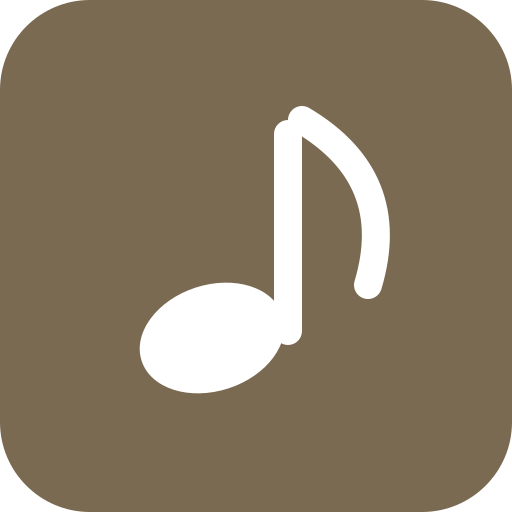
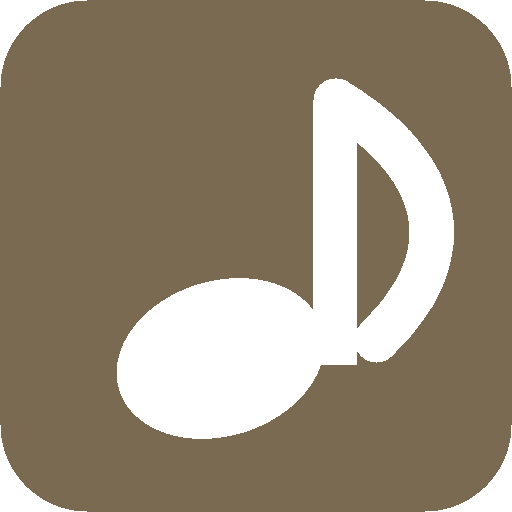
fix: PWA 아이콘 음표 픽셀 직접 렌더링으로 재생성

Changed region(s): [[0.2188, 0.1562, 0.9062, 0.875], [0.3125, 0.5625, 0.375, 0.5938]]

diff --git a/index.html b/index.html
@@ -10,7 +10,7 @@
     <meta name="apple-mobile-web-app-capable" content="yes" />
     <meta name="apple-mobile-web-app-status-bar-style" content="default" />
     <meta name="apple-mobile-web-app-title" content="춘천춘천" />
-    <link rel="apple-touch-icon" href="/icon.svg" />
+    <link rel="apple-touch-icon" href="/pwa-192x192.png" />
     <script>
       window.addEventListener('beforeinstallprompt', function(e) {
         e.preventDefault();